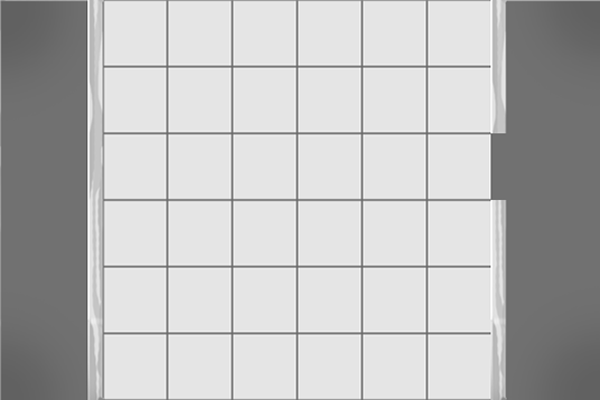
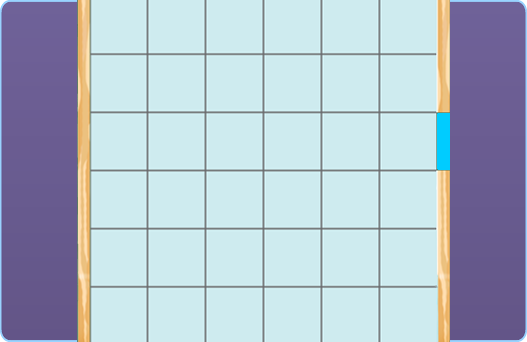
games pedro completo

diff --git a/www/viewG/viewG.js b/www/viewG/viewG.js
@@ -11,6 +11,7 @@ angular.module('myApp.viewG', ['ngRoute', 'mediaPlayer'])
 
         .controller('ViewGTabCtrl', function ($scope, $timeout, $location, SettingsService, BackgroundService) {
             BackgroundService.setCurrentBg("view-g-background");
+            $scope.ec_query_players = 'http://escoladocerebro.org/eduscada/c/index.php/ec_query_players';
 
             $scope.hidden = "hidden";
             $scope.points = [];
@@ -42,12 +43,57 @@ angular.module('myApp.viewG', ['ngRoute', 'mediaPlayer'])
                 $location.path(view);
 
             };
+            $scope.checkDash = function (player) {
+
+                $.getJSON($scope.ec_query_players, {action: "dashboardbyuser", idusers: player})
+                        .done(function (json) {
+                            if (json !== null) {
+
+                                var obj = JSON.parse(json);
+                                $scope.dashboard.ngames = obj[0].ngames;
+                                $scope.dashboard.acuracia = obj[0].acuracia;
+                                $scope.dashboard.velocidade = obj[0].velocidade;
+                                $scope.dashboard.estabilidade = obj[0].estabilidade;
+                                $scope.dashboard.total_time = obj[0].total_time;
+                                $scope.dashboard.pontuacao_avg = obj[0].pontuacao_avg;
+                                $scope.dashboard.pontuacao_sum = obj[0].pontuacao_sum;
+                                $scope.dashboard.idadmin = obj[0].idadmin;
+                                $scope.dashboard.barssum = obj[0].barssum;
+                                $scope.dashboard.barsavg = obj[0].barsavg;
+
+                                localStorage.brComCognisenseEscolaDoCerebroUserDashboard = JSON.stringify($scope.dashboard);
+//                                var obj = JSON.parse(localStorage.brComCognisenseEscolaDoCerebroUserDashboard);
+//                                console.log(obj[0].ngames);
+//                                console.log($scope.dashboard[0].ngames);
+                                $timeout(function () {
+                                    // $scope.showAlert("Você tem " + $scope.dashboard.ngames + " dados no dashboard!");
+                                }, 5000);
+                            } else {
+                                $scope.$apply(function () {
+                                    $timeout(function () {
+                                        //   $scope.showAlert("Sem dados no dashboard!");
+
+                                    }, 5000);
+
+                                });
+                            }
+                        })
+                        .fail(function (jqxhr, textStatus, error) {
+                            $scope.$apply(function () {
+
+                                $scope.showAlert("Você parece estar OFF-LINE!");
+                            });
+
+                        });
+
+            };
 
 
             if (localStorage.brComCognisenseEscolaDoCerebroUserProfile && localStorage.brComCognisenseEscolaDoCerebroUserProfile != 0) {
                 $scope.user = JSON.parse(localStorage.brComCognisenseEscolaDoCerebroUserProfile);
                 if ($scope.user.playerId > 0) {
                     $scope.statePlayer = true;
+                    $scope.checkDash($scope.user.playerId);
                     $scope.showAlert("Escolha um caminho " + $scope.user.fullname + ".");
 
                 } else {
@@ -86,7 +132,7 @@ angular.module('myApp.viewG', ['ngRoute', 'mediaPlayer'])
                 $scope.dashboard = JSON.parse(localStorage.brComCognisenseEscolaDoCerebroUserDashboard);
                 if ($scope.dashboard.ngames > 0) {
                     $scope.stateGamer = true;
-                    if ($scope.dashboard.ngames > 10) { 
+                    if ($scope.dashboard.ngames > 10) {
                         $scope.stateTesty = true;
 
                     }

diff --git a/www/games/genius/css/style.css b/www/games/genius/css/style.css
@@ -1,1 +1,1 @@
-.medium{   background-repeat:no-repeat; background-position: center center; background-image: url("../img/medium.png" );} .genius_e4{   background-repeat:no-repeat; background-position: center center; background-image: url("../img/genius_e4.png" );} .jogar{   background-repeat:no-repeat; background-position: center center; background-image: url("../img/jogar.png" );} .como_jogar_genius{   background-repeat:no-repeat; background-position: center center; background-image: url("../img/como_jogar_genius.png" );} .genius_e6{   background-repeat:no-repeat; background-position: center center; background-image: url("../img/genius_e6.png" );} .icone_genius{   background-repeat:no-repeat; background-position: center center; background-image: url("../img/icone_genius.png" );} .hard{   background-repeat:no-repeat; background-position: center center; background-image: url("../img/hard.png" );} .loading{   background-repeat:no-repeat; background-position: center center; background-image: url("../img/loading.png" );} .genius_bg{   background-repeat:no-repeat; background-position: center center; background-image: url("../img/genius_bg.png" );} .white_carbon{   background-repeat:no-repeat; background-position: center center; background-image: url("../img/white_carbon.png" );} .genius_e8{   background-repeat:no-repeat; background-position: center center; background-image: url("../img/genius_e8.png" );} .easy{   background-repeat:no-repeat; background-position: center center; background-image: url("../img/easy.png" );} .genius_circle_black{   background-repeat:no-repeat; background-position: center center; background-image: url("../img/genius_circle_black.png" );} .niveis_genius{   background-repeat:no-repeat; background-position: center center; background-image: url("../img/niveis_genius.png" );}  
+.genius{   background-repeat:no-repeat; background-position: center center; background-image: url("../img/genius.png" );} .genius_circle_black{   background-repeat:no-repeat; background-position: center center; background-image: url("../img/genius_circle_black.png" );} .play{   background-repeat:no-repeat; background-position: center center; background-image: url("../img/play.png" );} .genius_bg{   background-repeat:no-repeat; background-position: center center; background-image: url("../img/genius_bg.png" );} .easy{   background-repeat:no-repeat; background-position: center center; background-image: url("../img/easy.png" );} .hard{   background-repeat:no-repeat; background-position: center center; background-image: url("../img/hard.png" );} .como_jogar_genius{   background-repeat:no-repeat; background-position: center center; background-image: url("../img/como_jogar_genius.png" );   background-size: 100% 100%;} .niveis_genius{   background-repeat:no-repeat; background-position: center center; background-image: url("../img/niveis_genius.png" );   background-size: 100% 100%;} .medium{   background-repeat:no-repeat; background-position: center center; background-image: url("../img/medium.png" );} .loading{   background-repeat:no-repeat; background-position: center center; background-image: url("../img/loading.png" );} 

diff --git a/www/assets/js/eduscada_logger.js b/www/assets/js/eduscada_logger.js
@@ -22,14 +22,18 @@ function syncData(logObject) {
                             if (logArr.length === logArrWalk) {
                                 localStorage.brComCognisenseEscolaDoCerebroLogObjectArr = "";
                                 localStorage.brComCognisenseEscolaDoCerebroLogObjectArrLength = 0;
-                                $("#baloon-header-logger .baloon-label").text("Você fez " + Math.round(logObject.pontuacao) + " pontos em " + Math.round(logObject.time / 1000) + " segundos.");
-                                $("#baloon-header-logger").toggleClass("hidden");
-                                $("#game_again").on("click", function () {
+                                if (logObject.gameId !== "memos" && logObject.gameId !== "genius") {
+
+                                    $("#baloon-header-logger .baloon-label").text("Você fez " + Math.round(logObject.pontuacao) + " pontos em " + Math.round(logObject.time / 1000) + " segundos.");
                                     $("#baloon-header-logger").toggleClass("hidden");
-                                    document.getElementById(logObject.gameId).src = "games/" + logObject.gameId + "/" + logObject.gameId + ".html";
-                                });
-                                console.log("Ranking atualizado, jogue novamente!");
-                                console.log(obj)
+                                    $("#game_again").on("click", function () {
+                                        $("#baloon-header-logger").toggleClass("hidden");
+                                        document.getElementById(logObject.gameId).src = "games/" + logObject.gameId + "/" + logObject.gameId + ".html";
+                                    });
+                                }
+
+                                console.log("syncData atualizado, jogue novamente!" + obj);
+                              
                                 return true;
                             }
 

diff --git a/www/viewG/viewG.html b/www/viewG/viewG.html
@@ -7,10 +7,7 @@
                     {{dashboard.ngames}} 
                 </span>
             </div>
-            <div class="testy"  > 
-                <img class="testy-img" src="/assets/img/icone_trofeu_teste.png" alt="" ng-click="goPath('viewT')"/>
-                
-            </div>
+          
         </div>
         <div class="col-lg-6 col-md-6 col-sm-6 col-xs-6 title"> 
             <img class="title-img" src="/assets/img/tittle.png" alt=""/>
@@ -19,6 +16,10 @@
             </span>
         </div>
         <div class="col-lg-3 col-md-3 col-sm-3 col-xs-3 left-bar">  
+              <div class="testy"  > 
+                <img class="testy-img" src="/assets/img/icone_trofeu_teste.png" alt="" ng-click="goPath('viewT')"/>
+                
+            </div>
         </div>
     </div> 
 </nav>
@@ -26,6 +27,7 @@
 <section class="view view-g container" >  
     <div class="row">       
         <div class="col-lg-3 col-md-3 col-sm-3 col-xs-3 h100" ng-click="goPath('view3')"> 
+             
         </div>
         <div class="col-lg-3 col-md-3 col-sm-3 col-xs-3 h100" ng-click="goPath('view5')"> 
             

diff --git a/www/view3/view3.js b/www/view3/view3.js
@@ -176,6 +176,7 @@ angular.module('myApp.view3', ['ngRoute'])
                 $scope.user = JSON.parse(localStorage.brComCognisenseEscolaDoCerebroUserProfile);
                 if ($scope.user.playerId > 0) {
                     $scope.statePlayer = true;
+                    $scope.checkDash($scope.user.playerId);
                 } else {
                     $scope.statePlayer = false;
                     $scope.cleanUser();

diff --git a/www/app.css b/www/app.css
@@ -494,7 +494,7 @@ iframe{
 }
 .view-2 iframe{
     /* border: 3px solid #8Dceff; */
-    /* border-radius: 5px; */
+    border-radius: 5px;
 
     /* height: 348px; */ 
 
@@ -503,10 +503,10 @@ iframe{
 
     margin: 0 auto;  
 
-    max-height: 350px;
-    max-width: 530px;
-    min-height: 350px;
-    min-width: 530px;
+    max-height: 348px;
+    max-width: 527px;
+    min-height: 348px;
+    min-width: 527px;
 } 
 
 

diff --git a/www/viewT/viewT.js b/www/viewT/viewT.js
@@ -19,7 +19,7 @@ angular.module('myApp.viewT', ['ngRoute'])
             $scope.statePlayer = false;
             $scope.statePoints = false;
             $scope.stateSendPoints = false;
-            $scope.title = "Escolha um Game";
+            $scope.title = "Escolha um Teste";
 
             $scope.checkPsicotest = function (game) {
                 $scope.gameId = game;

diff --git a/www/games/genius/css/genius.css b/www/games/genius/css/genius.css
@@ -54,7 +54,7 @@ html {
     font-size: 100%; /* 1 */
     -webkit-text-size-adjust: 100%; /* 2 */
     -ms-text-size-adjust: 100%; /* 2 */
-    background: #413466; /* Old browsers */ 
+    background: transparent; /* Old browsers */ 
 
     width:100%;
 
@@ -87,6 +87,8 @@ body{
 
     width: 150px;
     height: 43px;
+
+    z-index: 10000000;
 
 }
 #divLevels{ 

diff --git a/www/games/genius/genius.html b/www/games/genius/genius.html
@@ -14,7 +14,7 @@
     </head>
     <body class="como_jogar_genius"> 
         <div id="divPlay"> 
-            <div id="btPlay" class="cover jogar"></div> 
+            <div id="btPlay" class="cover play"></div> 
         </div> 
         <div id="divLevels"> 
             <div class="cover easy"> </div> 

diff --git a/www/games/breakout/breakout.html b/www/games/breakout/breakout.html
@@ -22,7 +22,7 @@
 			#game-container
 			{
 				position: absolute;
-				width: 529px;
+				width: 527px;
 				height: 348px;
 				background-color: transparent;
 			}
@@ -50,7 +50,7 @@
 				left:14px;
 				top:14px;
 				
-				width: 501px;
+				width: 500px;
 				height: 334px;
 				
 				cursor: none;

diff --git a/www/games/tetris/tetris.html b/www/games/tetris/tetris.html
@@ -15,7 +15,7 @@
                 text-align: center;
                 padding: 0;
                 overflow: hidden;
-                background-color: #d4d4d4;
+                background-color: transparent;
                 
 
             }

diff --git a/www/games/connectome/connectome.html b/www/games/connectome/connectome.html
@@ -8,8 +8,8 @@
 			{
 				margin: 0px;
 				padding: 0px;
-				 background: #413466; /* Old browsers */ 
-				overflow:hidden;
+				  background: transparent; /* Old browsers */ 
+				overflow:hidden; 
 			}
 			
 			#game-display
